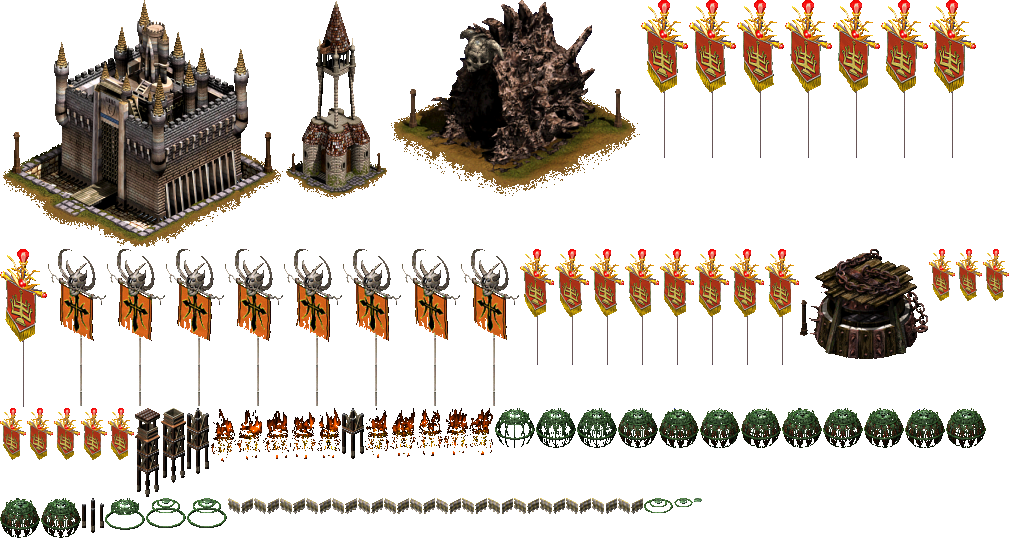
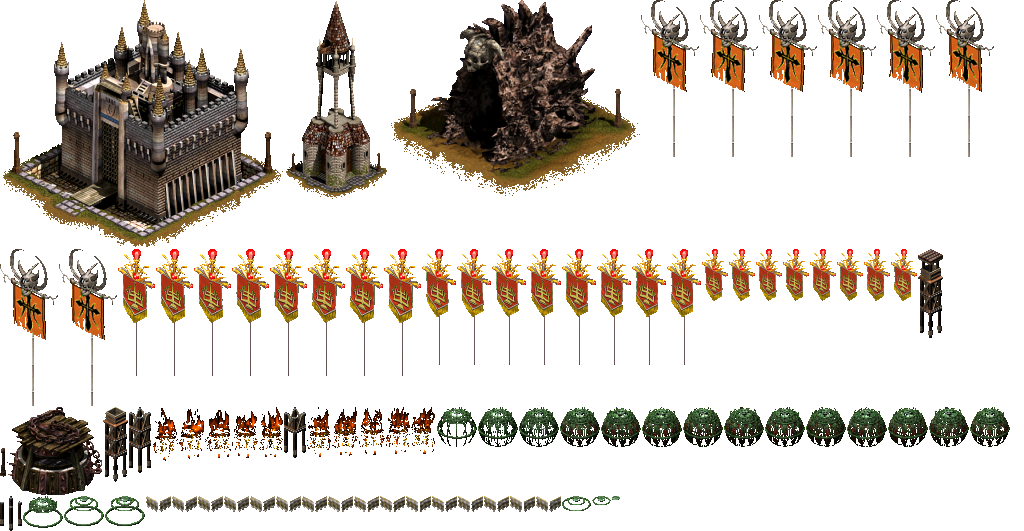
mirror-war: 디펜스 강화 즉시 시전(공격 유닛 2기), 그림자, 벙커 위·아래 배치

Changed region(s): [[0.0, 0.0301, 1.0, 1.0], [0.625, 0.0, 0.9688, 0.1808], [0.0312, 0.0904, 0.0625, 0.1205]]

diff --git a/mirror-war/mw/modes/defense.js b/mirror-war/mw/modes/defense.js
@@ -89,7 +89,7 @@
        사거리 = (4000 + 건물 사거리 보정 × 10) × RANGE_SCALE,  피해 = 원본 피해 공식 + 성 안 유닛들의 건물 공격 보너스 합 */
     /* 벙커 (2026-11-13): 성과 전장 가운데 사이의 길목에 세운 원작 방어 건물 2개. 성처럼 눌러서 고른 동안 소환하면 그 안에 들어가 쏜다(원본 건물 사격 규칙 8-35).
        x = 건물 기준점의 가로 위치, cap = 수용 인원. 전투 줄을 막지 않게 맨 윗줄 위(up px)에 세운다. 부서지지 않고 적은 건드리지 않는다(1차 — 재미를 확인한 뒤 체력을 넣을지 정한다) */
-    FORTS: [{ key: 'fort1', name: '타워', x: 470, cap: 2 }, { key: 'fort2', name: '방어기지', x: 730, cap: 2 }], FORT_UP: 20,
+    FORTS: [{ key: 'fort1', name: '타워', x: 470, cap: 2, at: 'top' }, { key: 'fort2', name: '방어기지', x: 730, cap: 2, at: 'bottom' }], FORT_UP: 20, FORT_DOWN: 8,   // at: 'top' = 맨 윗줄 위(FORT_UP px), 'bottom' = 전장 맨 아래(패널 위 FORT_DOWN px). 2026-11-13: 위 하나·아래 하나로 (사용자 요청) — 키 큰 타워가 위, 낮은 방어기지가 아래
     GAR_MAX: 4,                  // 성에 넣을 수 있는 수비 인원 (원본 성의 수용 인원 8보다 적게 — 사용자 요청)
     GARRISON: { tps: 12, shotSpeed: 420, classes: { 4: { act: 4, from: 4, mod: 24, step: 1, deploy: 5, loop: 16 }, 0: { act: 15, from: 12, mod: 40, step: 4, deploy: 10, loop: 10 } } },
     /* 아군 마법 유닛(스킬이 있는 유닛)은 공격 유닛에 바짝 붙는다 (2026-11-13 사용자 요청: 강화를 걸어 줄 유닛이 너무 뒤에 선다).
@@ -98,7 +98,7 @@
     SUPPORT_DIST: 210,           // 기본 공격이 없는 유닛(성직자·소환사 등)이 적과 벌려 두는 거리(px)
     /* 스킬은 전체 마나를 쓴다 (소환과 같은 마나) + 짧은 재사용 대기 cool(초). 값 = 원본 행동 마나 × costMul 을 5 단위로, 종류별 [최소, 최대] 안으로 자른다 (COST)
        — 원본은 유닛마다 마나통이 따로라 값을 그대로 쓸 수 없어 비율만 가져온다. 2026-11-12: 쿨타임만 돌던 방식에서 바꿈 (공짜라 강화를 상시 돌리던 문제) */
-    SKILL: { charmMax: 3, cool: 3, costMul: 0.4, COST: { blast: [40, 70], buff: [20, 30], heal: [15, 40], haste: [60, 60], weaken: [20, 25], stun: [35, 50], recall: [40, 40], charm: [50, 60], assassin: [40, 40], morph: [20, 20] }, radius: 95, buffRadius: 170, dmgMul: 2, healRatio: 0.5, stunSec: 6, firstWait: 2, hasteMul: 1.5, maxCast: 320, walkSec: 45, buffSec: 7, tierBase: 100, tierPer: 0.004 },   // maxCast = 시전 거리 한도(px). 원본 사거리가 무제한(65535)인 마법도 이 안에 대상이 있어야 한다   // 스킬 공통 수치 (목업 값)
+    SKILL: { charmMax: 3, cool: 3, costMul: 0.4, COST: { blast: [40, 70], buff: [20, 30], heal: [15, 40], haste: [60, 60], weaken: [20, 25], stun: [35, 50], recall: [40, 40], charm: [50, 60], assassin: [40, 40], morph: [20, 20] }, radius: 95, buffRadius: 170, dmgMul: 2, healRatio: 0.5, stunSec: 6, firstWait: 2, hasteMul: 1.5, maxCast: 320, walkSec: 45, buffSec: 7, buffMax: 2, tierBase: 100, tierPer: 0.004 },   // maxCast = 시전 거리 한도(px). 원본 사거리가 무제한(65535)인 마법도 이 안에 대상이 있어야 한다   // 스킬 공통 수치 (목업 값)
     /* 소환 패널의 탭: 해방부대 전체(원본 유닛 번호 0~24)를 네 묶음으로 나눈다 */
     TABS: [
       { name: '근접', ids: [0, 1, 2, 3, 6, 7, 8] },          // 전사 기사 창기사 성기사 창검사 격투가 무도가
@@ -283,7 +283,7 @@
     // 수비 건물: 성(자리 0) + 벙커. garrison = 안의 유닛 { r(소환 목록 항목), u(피해 계산용 Unit), cls, bonus } — 순서 = 자리 번호. weapons = 건물 무기 상태(phase -1 없음 / 0 전개 중 / 2 가동, c = 그림 카운터)
     var D0 = this.bld, self0 = this, mk = function (key, name, B, x, yOf, cap) { var f = { key: key, name: name, B: B, x: x, cap: cap, garrison: [], weapons: { 0: { phase: -1, c: 0 }, 4: { phase: -1, c: 0 } } }; Object.defineProperty(f, 'y', { get: yOf }); return f; };   // y 는 그때그때 계산 (화면 크기가 바뀌면 전투 줄 위치가 바뀐다)
     this.forts = []; if (D0.base) this.forts.push(mk('base', '성', D0.base, C.BASE.x, function () { return self0.laneY + 44; }, Math.min(C.GAR_MAX, D0.base.cap)));
-    for (var fi = 0; fi < C.FORTS.length; fi++) { var fc = C.FORTS[fi]; if (D0[fc.key]) this.forts.push(mk(fc.key, fc.name, D0[fc.key], fc.x, function () { return self0.laneY + self0.rows[0] - C.FORT_UP; }, Math.min(fc.cap, D0[fc.key].cap))); }
+    for (var fi = 0; fi < C.FORTS.length; fi++) { var fc = C.FORTS[fi]; if (D0[fc.key]) (function (fc) { var f = mk(fc.key, fc.name, D0[fc.key], fc.x, fc.at === 'bottom' ? function () { return self0.H - self0.hudH - C.FORT_DOWN; } : function () { return self0.laneY + self0.rows[0] - C.FORT_UP; }, Math.min(fc.cap, D0[fc.key].cap)); f.at = fc.at; self0.forts.push(f); })(fc); }
     this.selFort = null;
     this.garTick = 0;            // 마지막으로 처리한 사격 틱
     this.slotFirst = 0; this.slotPos = 0; this.slotView = []; this.groups = [];   // 캐러셀: 맨 왼쪽에 보이는 칸 번호, 넘기는 동작용 현재 위치
@@ -469,7 +469,7 @@
     this.readyAt = 0;                                        // 쿨타임이 끝난 시각 (패널에서 앞에 설 순서를 정한다)
     this.vi = null;                                          // 패널에서 지금 그려지는 자리 (순서가 바뀌면 그 자리로 미끄러져 간다)
     this.kind = skillKind(act);
-    this.aimed = this.needsFoe() || this.kind === 'recall' || (this.kind === 'buff' && !act.self);   // 강화(파운틴 베리어·웨폰)도 걸어 줄 아군을 찍는다 (2026-11-13: 남발 방지 — 한 번에 한 기, 7초)   // 리콜도 불러올 곳을 찍는다                            // 적에게 쓰는 마법은 누르면 바로 나가지 않고 전장에서 지점을 찍는다 (아군·자기에게 쓰는 마법은 즉시)
+    this.aimed = this.needsFoe() || this.kind === 'recall';   // 적에게 쓰는 마법과 리콜만 지점을 찍는다. 강화·회복·가속은 누르면 바로   // 리콜도 불러올 곳을 찍는다                            // 적에게 쓰는 마법은 누르면 바로 나가지 않고 전장에서 지점을 찍는다 (아군·자기에게 쓰는 마법은 즉시)
     var lim = CONFIG.SKILL.COST[this.kind] || [20, 60];
     this.cost = Math.max(lim[0], Math.min(lim[1], Math.round(act.mana * CONFIG.SKILL.costMul / 5) * 5));   // 쓸 때 드는 마나
   }
@@ -601,8 +601,6 @@
     if (wx > this.frontX + this.aimReach(s)) { this._say(wx, y - 12, '적 진영 안쪽 — 닿지 않음', '#e08a6a'); return false; }
     if (Math.abs(wx - u.x) <= this.aimReach(s)) { var ok = this.castUnitSkill(u, u.slots.indexOf(s), { x: wx, y: y }); if (ok) { this.aim = null; this.aimPt = null; } return ok; }
     var foe = null, bd = 45; if (s.kind === 'assassin') this.units.forEach(function (o) { if (o.side === u.side || o.state === 'dead') return; var d = Math.hypot(o.x - wx, o.y - y); if (d < bd) { bd = d; foe = o; } });   // 암살류는 그 적을 따라간다
-    if (s.kind === 'buff') { this.units.forEach(function (o) { if (o.side !== u.side || o.state === 'dead') return; var d = Math.hypot(o.x - wx, (o.y - o.headY * 0.5) - wy); if (d < bd) { bd = d; foe = o; } });   // 강화는 찍은 아군을 따라간다
-      if (!foe) { this._say(wx, y - 12, '걸어 줄 아군을 누르세요', '#c9d1e3'); return false; } }
     u.castOrder = { slot: s, x: wx, y: y, foe: foe, until: this.time + CONFIG.SKILL.walkSec };
     this._say(u.x, u.y - u.headY - 10, g.act.name + ' 쓰러 이동', '#7fd6ff');
     this.aim = null; this.aimPt = null; return true;
@@ -777,14 +775,14 @@
       if (mass) this._addEffect(u.x, this.laneY, a.arm, 0);
       ok = true;
     } else if (s.kind === 'buff') {                          // 주변 아군에게 강화. 배수는 원본 규칙(OriginalRules)이 buffs를 보고 적용한다
-      // 강화는 한 번에 한 기, buffSec(7초) 동안 (2026-11-13 사용자 요청: 파운틴 베리어·웨폰이 남발되지 않게 대상 지정 + 짧은 지속).
-      // 대상: 자기 전용(아이스 웨폰 등, 원본 +0x3C == 0xFFFF)은 시전자, 찍었으면 찍은 곳에서 가장 가까운 아군(45px 안), 스스로 쓰는 유닛(영웅·적)은 그 강화가 없는 가장 가까운 아군(없으면 자기)
-      var bt = null, bd1 = Infinity, hasB = function (o) { return o.buffs[a.sup] && o.buffs[a.sup].until > self.time; };
-      if (a.self) bt = u;
-      else if (pt) { bd1 = 45; this.units.forEach(function (o) { if (o.side !== u.side || o.state === 'dead') return; var d1 = Math.hypot(o.x - pt.x, (o.y - o.headY * 0.5) - pt.y); if (d1 < bd1) { bd1 = d1; bt = o; } }); }
-      else { allies(S.buffRadius).forEach(function (o) { if (hasB(o)) return; var d2 = Math.abs(o.x - u.x); if (d2 < bd1) { bd1 = d2; bt = o; } }); if (!bt) bt = u; }
-      if (bt) { bt.buffs[a.sup] = { k1: a.k1, k2: a.k2, arm: a.arm, until: this.time + S.buffSec }; foe = bt; ok = true; }
-      else { this._say(pt.x, pt.y - 12, '걸어 줄 아군을 누르세요', '#c9d1e3'); return false; }
+      // 강화(파운틴 베리어·웨폰): 누르면 바로, 시전자 주변(buffRadius)의 **공격 유닛 buffMax(2)기**에게 buffSec(7초) 동안 걸린다.
+      // 2026-11-13: 아군을 찍는 대상 지정은 조작이 어려워 되돌림(사용자). 남발·화면 가득 참을 막는 장치는 "2기 + 7초"로 유지.
+      // 고르는 순서: 그 강화가 없는 유닛 먼저, 그다음 적에게 가까운(앞에 선) 유닛. 자기 전용(아이스 웨폰 등, 원본 +0x3C == 0xFFFF)은 시전자만. 걸어 줄 공격 유닛이 없으면 자기에게
+      var hasB = function (o) { return o.buffs[a.sup] && o.buffs[a.sup].until > self.time ? 1 : 0; }, BT;
+      if (a.self) BT = [u];
+      else { BT = allies(S.buffRadius).filter(function (o) { return o !== u && o.act; }).sort(function (p, q) { return (hasB(p) - hasB(q)) || (u.side === 0 ? q.x - p.x : p.x - q.x); }).slice(0, S.buffMax); if (!BT.length) BT = [u]; }
+      BT.forEach(function (o) { o.buffs[a.sup] = { k1: a.k1, k2: a.k2, arm: a.arm, until: self.time + S.buffSec }; });
+      ok = true;
     } else if (s.kind === 'haste') {                         // 주변 아군이 빨리 걷는다 (케멘 소환). 걸린 유닛 머리 위에 원본 가속 이펙트(칸 44)
       allies(S.buffRadius * 1.3).forEach(function (o) { o.buffs.haste = { arm: a.arm, until: self.time + (a.dur || 600) / tps }; });
       this._addEffect(u.x, this.laneY, a.arm, 0); ok = true;
@@ -1250,6 +1248,7 @@
     // 유닛: 화면에 보이는 것만, 아래쪽(y가 큰) 유닛이 위에 그려지도록 정렬
     var L = this.units.filter(function (u) { return u.x > vx0 && u.x < vx1; }).sort(function (a, b) { return a.y - b.y; });
     for (i = 0; i < L.length; i++) this._drawUnit(L[i]);
+    this._drawForts('bottom');                               // 아래쪽 벙커: 유닛보다 앞에 있다
     for (i = 0; i < this.shots.length; i++) this._drawShot(this.shots[i]);
     for (i = 0; i < this.effects.length; i++) this._drawEffect(this.effects[i]);
     this._drawTexts();
@@ -1294,15 +1293,20 @@
     if (B) { var sh = this.baseHit > 0 ? Math.round(Math.sin(this.time * 90) * 2) : 0, F0 = this.forts[0];   // 맞으면 살짝 흔들린다
       if (this.selFort === F0) this._drawOutline(B, C.BASE.x + sh, gy);   // 고른 건물: 윤곽을 따라 초록 선
       this._drawBuilding(B, C.BASE.x + sh, gy, F0); }
-    for (var fi = 1; fi < this.forts.length; fi++) { var F = this.forts[fi];   // 벙커
-      if (this.selFort === F) this._drawOutline(F.B, F.x, F.y);
-      this._drawBuilding(F.B, F.x, F.y, F); }
+    this._drawForts('top');                                  // 위쪽 벙커는 유닛보다 먼저(뒤에), 아래쪽 벙커는 유닛을 다 그린 뒤(앞에) — draw()
     if (L) { var lx = C.WORLD_W - C.LAIR.back, lp = D.pics[L.pic], ctx = this.ctx;
       this._drawBuilding(L, lx, gy);
       // 마굴 입구의 으스스한 빛 (가산 합성으로 깜박임)
       var gx = lx - lp[2] * 0.16, gcy = gy - lp[3] * 0.30, g = ctx.createRadialGradient(gx, gcy, 2, gx, gcy, 46);
       g.addColorStop(0, 'rgba(190,90,220,' + (0.30 + 0.16 * Math.sin(this.time * 3)) + ')'); g.addColorStop(1, 'rgba(190,90,220,0)');
       ctx.globalCompositeOperation = 'lighter'; ctx.fillStyle = g; ctx.fillRect(gx - 46, gcy - 46, 92, 92); ctx.globalCompositeOperation = 'source-over'; }
+  };
+
+  /* 벙커 그리기: at = 'top' 또는 'bottom' 인 것만 */
+  P._drawForts = function (at) {
+    for (var fi = 1; fi < this.forts.length; fi++) { var F = this.forts[fi]; if ((F.at || 'top') !== at) continue;
+      if (this.selFort === F) this._drawOutline(F.B, F.x, F.y);
+      this._drawBuilding(F.B, F.x, F.y, F); }
   };
 
   /* 고른 건물의 윤곽선: 건물 그림의 실루엣을 원작 선택 원과 같은 초록으로 칠해 여덟 방향으로 1px씩 밀어 먼저 그린다 → 건물을 그리면 가장자리에 초록 선만 남는다.
@@ -1365,9 +1369,9 @@
     var ctx = this.ctx, fi = u.frameIndex(this.rules.tps), f = fi >= 0 ? u.t.frames[fi] : null, x = Math.round(u.x), y = Math.round(u.y), drop = u.drop || 0, T = this.time;
     if (!f) return;
     ctx.globalAlpha = u.state === 'dead' ? 1 - u.fade : 1;
-    // 그림자 = 편 표시 (2026-11-13 사용자 요청): 발밑 원 대신 그림자에 색을 입힌다 — 아군 초록, 적 빨강. 난전에서 선이 겹쳐 복잡해지지 않는다. 크기는 유닛 폭(체력 바 폭)에 맞춘다
+    // 그림자: 크기는 유닛 폭(체력 바 폭)에 맞춘다
     var HB0 = root.MW && root.MW.hpbar, sw = HB0 && HB0.units[u.t.id] ? Math.max(11, Math.min(26, HB0.units[u.t.id][1] * 0.5)) : 13;
-    ctx.fillStyle = u.state === 'dead' ? 'rgba(0,0,0,.3)' : u.side === 0 ? 'rgba(30,150,60,.5)' : 'rgba(190,35,25,.5)'; ctx.beginPath(); ctx.ellipse(x, y + 2, sw, sw * 0.4, 0, 0, 6.3); ctx.fill();
+    ctx.fillStyle = 'rgba(0,0,0,.32)'; ctx.beginPath(); ctx.ellipse(x, y + 2, sw, sw * 0.4, 0, 0, 6.3); ctx.fill();   // 2026-11-13: 진영색을 빼고 그냥 그림자로 (사용자 요청). 편은 체력 바 색(아군 초록, 적 빨강)과 바라보는 방향으로 구분된다
     // 고른 유닛: 원작 선택 원(choice.spr)의 한 단계 큰 노란 원이 1.2Hz로 맥박친다 — 뒤쪽 반은 유닛보다 먼저, 앞쪽 반은 유닛 위에 (회수 버튼은 _drawSelectionOverlay)
     if (u.state !== 'dead') { if (u === this.sel) { ctx.globalAlpha = 0.775 + 0.225 * Math.sin(T * 7.54); this._ring(u, x, y + 2, 28, 0, 1); ctx.globalAlpha = 1; } }
     // 공격 강화(웨폰): 발밑에서 도는 원본 이펙트. 방어 강화(베리어)는 몸 가운데 높이 — 전장 시뮬(worldview.js)과 같은 방식

diff --git a/mirror-war/sim/defense.js b/mirror-war/sim/defense.js
@@ -1,1 +1,1 @@
-window.MW_DEF={"base":{"pic":0,"ax":142,"ay":223,"type":17,"scale":0.55,"cap":8,"center":[140,0],"rangeAdd":224,"flags":[[14,-39],[265,-39]],"arm0":[138,-70],"arm4":[240,4],"flagFrames":[1,2,3,4,5,6,7,8]},"lair":{"pic":9,"ax":125,"ay":172,"type":8,"scale":0.8,"cap":5,"center":[128,0],"rangeAdd":152,"flags":[[26,-37],[230,-38]],"arm0":[126,-87],"arm4":[216,-2],"flagFrames":[10,11,12,13,14,15,16,17]},"fort1":{"pic":18,"ax":53,"ay":181,"type":26,"scale":0.42,"cap":7,"center":[54,0],"rangeAdd":112,"flags":[[11,-18],[97,-18]],"arm0":[53,-60],"arm4":[95,-4],"flagFrames":[19,20,21,22,23,24,25,26]},"fort2":{"pic":27,"ax":64,"ay":99,"type":31,"scale":0.75,"cap":4,"center":[72,0],"rangeAdd":80,"flags":[[10,-31]],"arm0":[75,-91],"arm4":[148,-9],"flagFrames":[28,29,30,31,32,33,34,35]},"arm0":[36,37,38,39,40,41,42,43,44,45,46,47,48,49,50,51,52,53,54,55,56,57,58,59,60,61,62,63,64,65],"arm4":[66,67,68,69,70,71,72,73,74,75,76,77,78,79,80,81,82,83,84,85,86],"units":{"4":{"cls":4,"bonus":0},"5":{"cls":4,"bonus":0},"6":{"cls":4,"bonus":0},"11":{"cls":-1,"bonus":8},"12":{"cls":0,"bonus":0},"13":{"cls":0,"bonus":0},"14":{"cls":-1,"bonus":20},"15":{"cls":-1,"bonus":10},"16":{"cls":-1,"bonus":15},"27":{"cls":3,"bonus":0},"39":{"cls":2,"bonus":0},"40":{"cls":2,"bonus":0},"41":{"cls":2,"bonus":0},"43":{"cls":-1,"bonus":6},"44":{"cls":-1,"bonus":8},"45":{"cls":-1,"bonus":12},"49":{"cls":-1,"bonus":15},"50":{"cls":-1,"bonus":20},"51":{"cls":1,"bonus":0},"53":{"cls":5,"bonus":0},"54":{"cls":5,"bonus":0},"57":{"cls":5,"bonus":0},"60":{"cls":-1,"bonus":20},"61":{"cls":-1,"bonus":15}},"pics":[[0,0,283,248,2,172],[520,249,34,116,17,116],[555,249,34,116,17,116],[590,249,34,116,17,116],[625,249,34,116,17,116],[660,249,34,116,17,116],[695,249,34,116,17,116],[730,249,34,116,17,116],[765,249,34,116,17,116],[390,0,250,196,-3,126],[48,249,58,157,32,156],[107,249,58,157,32,156],[166,249,58,157,32,156],[225,249,58,157,32,156],[284,249,58,157,32,156],[343,249,58,157,32,156],[402,249,58,157,32,156],[461,249,58,157,32,156],[284,0,105,201,-2,171],[929,249,26,89,13,88],[956,249,26,89,13,88],[983,249,26,89,13,88],[0,408,26,89,13,88],[27,408,26,89,13,88],[54,408,26,89,13,88],[81,408,26,89,13,88],[108,408,26,89,13,88],[800,249,128,110,-7,83],[641,0,47,158,23,158],[689,0,47,158,23,158],[737,0,47,158,23,158],[785,0,47,158,23,158],[833,0,47,158,23,158],[881,0,47,158,23,158],[929,0,47,158,23,158],[0,249,47,158,23,158],[694,498,8,4,4,20],[674,498,19,9,9,21],[644,498,29,15,14,21],[146,498,40,30,20,21],[187,498,40,30,20,21],[105,498,40,32,20,23],[495,408,40,40,20,23],[536,408,40,40,20,23],[577,408,40,40,20,23],[618,408,40,40,20,23],[659,408,40,40,20,23],[700,408,40,40,20,23],[741,408,40,40,20,23],[782,408,40,40,20,23],[823,408,40,40,20,23],[864,408,40,40,20,23],[905,408,40,40,20,23],[946,408,40,40,20,23],[0,498,40,40,20,23],[41,498,40,40,20,23],[444,408,24,47,13,34],[263,408,26,51,15,38],[365,408,24,50,12,37],[290,408,26,51,13,37],[317,408,24,51,12,38],[237,408,25,52,13,39],[210,408,26,54,13,40],[469,408,25,47,13,34],[417,408,26,48,13,35],[390,408,26,49,14,36],[82,498,22,35,-18,11],[342,408,22,51,-18,26],[187,408,22,66,-18,42],[161,408,25,75,-16,51],[135,408,25,89,-16,65],[228,498,25,16,-16,36],[254,498,25,16,-16,36],[280,498,25,16,-16,36],[306,498,25,16,-16,36],[332,498,25,16,-16,36],[358,498,25,16,-16,36],[384,498,25,16,-16,36],[410,498,25,16,-16,36],[436,498,25,16,-16,36],[462,498,25,16,-16,36],[488,498,25,16,-16,36],[514,498,25,16,-16,36],[540,498,25,16,-16,36],[566,498,25,16,-16,36],[592,498,25,16,-16,36],[618,498,25,16,-16,36]]};
+window.MW_DEF={"base":{"pic":0,"ax":142,"ay":223,"type":17,"scale":0.55,"cap":8,"center":[140,0],"rangeAdd":224,"flags":[[14,-39],[265,-39]],"arm0":[138,-70],"arm4":[240,4],"flagFrames":[1,2,3,4,5,6,7,8]},"lair":{"pic":9,"ax":125,"ay":172,"type":8,"scale":0.8,"cap":5,"center":[128,0],"rangeAdd":152,"flags":[[26,-37],[230,-38]],"arm0":[126,-87],"arm4":[216,-2],"flagFrames":[10,11,12,13,14,15,16,17]},"fort1":{"pic":18,"ax":53,"ay":181,"type":26,"scale":0.42,"cap":7,"center":[54,0],"rangeAdd":112,"flags":[[11,-18],[97,-18]],"arm0":[53,-60],"arm4":[95,-4],"flagFrames":[19,20,21,22,23,24,25,26]},"fort2":{"pic":27,"ax":51,"ay":79,"type":31,"scale":0.6,"cap":4,"center":[58,0],"rangeAdd":80,"flags":[[8,-25]],"arm0":[60,-73],"arm4":[118,-7],"flagFrames":[28,29,30,31,32,33,34,35]},"arm0":[36,37,38,39,40,41,42,43,44,45,46,47,48,49,50,51,52,53,54,55,56,57,58,59,60,61,62,63,64,65],"arm4":[66,67,68,69,70,71,72,73,74,75,76,77,78,79,80,81,82,83,84,85,86],"units":{"4":{"cls":4,"bonus":0},"5":{"cls":4,"bonus":0},"6":{"cls":4,"bonus":0},"11":{"cls":-1,"bonus":8},"12":{"cls":0,"bonus":0},"13":{"cls":0,"bonus":0},"14":{"cls":-1,"bonus":20},"15":{"cls":-1,"bonus":10},"16":{"cls":-1,"bonus":15},"27":{"cls":3,"bonus":0},"39":{"cls":2,"bonus":0},"40":{"cls":2,"bonus":0},"41":{"cls":2,"bonus":0},"43":{"cls":-1,"bonus":6},"44":{"cls":-1,"bonus":8},"45":{"cls":-1,"bonus":12},"49":{"cls":-1,"bonus":15},"50":{"cls":-1,"bonus":20},"51":{"cls":1,"bonus":0},"53":{"cls":5,"bonus":0},"54":{"cls":5,"bonus":0},"57":{"cls":5,"bonus":0},"60":{"cls":-1,"bonus":20},"61":{"cls":-1,"bonus":15}},"pics":[[0,0,283,248,2,172],[422,249,34,116,17,116],[457,249,34,116,17,116],[492,249,34,116,17,116],[527,249,34,116,17,116],[562,249,34,116,17,116],[597,249,34,116,17,116],[632,249,34,116,17,116],[667,249,34,116,17,116],[390,0,250,196,-3,126],[641,0,58,157,32,156],[700,0,58,157,32,156],[759,0,58,157,32,156],[818,0,58,157,32,156],[877,0,58,157,32,156],[936,0,58,157,32,156],[0,249,58,157,32,156],[59,249,58,157,32,156],[284,0,105,201,-2,171],[702,249,26,89,13,88],[729,249,26,89,13,88],[756,249,26,89,13,88],[783,249,26,89,13,88],[810,249,26,89,13,88],[837,249,26,89,13,88],[864,249,26,89,13,88],[891,249,26,89,13,88],[0,407,102,88,-5,67],[118,249,37,127,18,126],[156,249,37,127,18,126],[194,249,37,127,18,126],[232,249,37,127,18,126],[270,249,37,127,18,126],[308,249,37,127,18,126],[346,249,37,127,18,126],[384,249,37,127,18,126],[612,496,8,4,4,20],[592,496,19,9,9,21],[562,496,29,15,14,21],[64,496,40,30,20,21],[105,496,40,30,20,21],[23,496,40,32,20,23],[437,407,40,40,20,23],[478,407,40,40,20,23],[519,407,40,40,20,23],[560,407,40,40,20,23],[601,407,40,40,20,23],[642,407,40,40,20,23],[683,407,40,40,20,23],[724,407,40,40,20,23],[765,407,40,40,20,23],[806,407,40,40,20,23],[847,407,40,40,20,23],[888,407,40,40,20,23],[929,407,40,40,20,23],[970,407,40,40,20,23],[386,407,24,47,13,34],[205,407,26,51,15,38],[307,407,24,50,12,37],[232,407,26,51,13,37],[259,407,24,51,12,38],[179,407,25,52,13,39],[152,407,26,54,13,40],[411,407,25,47,13,34],[359,407,26,48,13,35],[332,407,26,49,14,36],[0,496,22,35,-18,11],[284,407,22,51,-18,26],[129,407,22,66,-18,42],[103,407,25,75,-16,51],[918,249,25,89,-16,65],[146,496,25,16,-16,36],[172,496,25,16,-16,36],[198,496,25,16,-16,36],[224,496,25,16,-16,36],[250,496,25,16,-16,36],[276,496,25,16,-16,36],[302,496,25,16,-16,36],[328,496,25,16,-16,36],[354,496,25,16,-16,36],[380,496,25,16,-16,36],[406,496,25,16,-16,36],[432,496,25,16,-16,36],[458,496,25,16,-16,36],[484,496,25,16,-16,36],[510,496,25,16,-16,36],[536,496,25,16,-16,36]]};

diff --git a/mirror-war/sim/sizes.js b/mirror-war/sim/sizes.js
@@ -1,1 +1,1 @@
-window.MW_SIZES={"acticons.png":225513,"arms0.png":1388724,"arms1.png":1126294,"arms2.png":1428574,"arms3.png":1456514,"arms4.png":1550241,"arms5.png":1357943,"arms6.png":800120,"bgm0.mp3":3092479,"bgm0b.mp3":2471809,"bgm0c.mp3":2460106,"bgm1.mp3":2842957,"bgm1b.mp3":2897292,"bgm1c.mp3":3150157,"bgm2.mp3":2936162,"bgm2b.mp3":2676609,"bgm2c.mp3":2932400,"blds.png":372376,"blds2.png":83,"block.js":2529,"block.png":138611,"data.js":826259,"defense.js":3545,"defense.png":490581,"figs.png":258083,"hpbar.js":2746,"hpbar.png":9875,"hud0.png":86525,"hud1.png":68367,"hud2.png":66238,"icons.png":4840,"minimap.png":20614,"minimap2.png":30743,"mouse.js":2747,"mouse.png":52860,"movemark.png":2821,"objs.png":232552,"objs2.png":393879,"portraits.png":1681243,"sfx.js":8410021,"tiles.png":528876,"tiles2.png":532002,"u/00.png":94409,"u/01.png":141591,"u/02.png":216918,"u/03.png":187674,"u/04.png":88463,"u/05.png":124603,"u/06.png":80722,"u/07.png":46017,"u/08.png":62655,"u/09.png":81922,"u/10.png":65109,"u/11.png":74460,"u/12.png":129255,"u/13.png":99162,"u/14.png":84083,"u/15.png":72190,"u/16.png":112430,"u/17.png":66250,"u/18.png":91998,"u/19.png":137864,"u/20.png":177891,"u/21.png":143907,"u/22.png":452512,"u/23.png":160544,"u/24.png":82658,"u/25.png":119488,"u/26.png":150275,"u/27.png":225333,"u/28.png":67880,"u/29.png":143418,"u/30.png":228398,"u/31.png":42244,"u/32.png":160297,"u/33.png":137093,"u/34.png":171272,"u/35.png":101530,"u/36.png":128511,"u/37.png":43411,"u/38.png":99257,"u/39.png":100098,"u/40.png":213360,"u/41.png":317194,"u/42.png":42439,"u/43.png":33893,"u/44.png":166355,"u/45.png":140032,"u/46.png":17015,"u/47.png":590471,"u/48.png":171453,"u/49.png":86586,"u/50.png":105991,"u/51.png":180516,"u/52.png":83436,"u/53.png":165271,"u/54.png":283996,"u/55.png":42954,"u/56.png":57857,"u/57.png":148268,"u/58.png":124503,"u/59.png":91309,"u/60.png":82639,"u/61.png":66769,"u/62.png":95185,"u/63.png":85537,"u/64.png":96965,"u/65.png":111503,"u/66.png":184690,"u/67.png":576904,"u/68.png":54769,"u/69.png":141975,"u/70.png":178292,"u/71.png":84949,"u/77.png":208329,"u/78.png":152240,"u/79.png":79423};
+window.MW_SIZES={"acticons.png":225513,"arms0.png":1388724,"arms1.png":1126294,"arms2.png":1428574,"arms3.png":1456514,"arms4.png":1550241,"arms5.png":1357943,"arms6.png":800120,"bgm0.mp3":3092479,"bgm0b.mp3":2471809,"bgm0c.mp3":2460106,"bgm1.mp3":2842957,"bgm1b.mp3":2897292,"bgm1c.mp3":3150157,"bgm2.mp3":2936162,"bgm2b.mp3":2676609,"bgm2c.mp3":2932400,"blds.png":372376,"blds2.png":83,"block.js":2529,"block.png":138611,"data.js":826259,"defense.js":3547,"defense.png":463852,"figs.png":258083,"hpbar.js":2746,"hpbar.png":9875,"hud0.png":86525,"hud1.png":68367,"hud2.png":66238,"icons.png":4840,"minimap.png":20614,"minimap2.png":30743,"mouse.js":2747,"mouse.png":52860,"movemark.png":2821,"objs.png":232552,"objs2.png":393879,"portraits.png":1681243,"sfx.js":8410021,"tiles.png":528876,"tiles2.png":532002,"u/00.png":94409,"u/01.png":141591,"u/02.png":216918,"u/03.png":187674,"u/04.png":88463,"u/05.png":124603,"u/06.png":80722,"u/07.png":46017,"u/08.png":62655,"u/09.png":81922,"u/10.png":65109,"u/11.png":74460,"u/12.png":129255,"u/13.png":99162,"u/14.png":84083,"u/15.png":72190,"u/16.png":112430,"u/17.png":66250,"u/18.png":91998,"u/19.png":137864,"u/20.png":177891,"u/21.png":143907,"u/22.png":452512,"u/23.png":160544,"u/24.png":82658,"u/25.png":119488,"u/26.png":150275,"u/27.png":225333,"u/28.png":67880,"u/29.png":143418,"u/30.png":228398,"u/31.png":42244,"u/32.png":160297,"u/33.png":137093,"u/34.png":171272,"u/35.png":101530,"u/36.png":128511,"u/37.png":43411,"u/38.png":99257,"u/39.png":100098,"u/40.png":213360,"u/41.png":317194,"u/42.png":42439,"u/43.png":33893,"u/44.png":166355,"u/45.png":140032,"u/46.png":17015,"u/47.png":590471,"u/48.png":171453,"u/49.png":86586,"u/50.png":105991,"u/51.png":180516,"u/52.png":83436,"u/53.png":165271,"u/54.png":283996,"u/55.png":42954,"u/56.png":57857,"u/57.png":148268,"u/58.png":124503,"u/59.png":91309,"u/60.png":82639,"u/61.png":66769,"u/62.png":95185,"u/63.png":85537,"u/64.png":96965,"u/65.png":111503,"u/66.png":184690,"u/67.png":576904,"u/68.png":54769,"u/69.png":141975,"u/70.png":178292,"u/71.png":84949,"u/77.png":208329,"u/78.png":152240,"u/79.png":79423};
